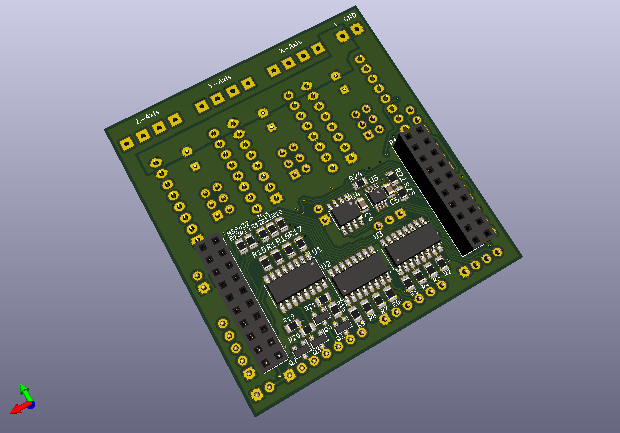
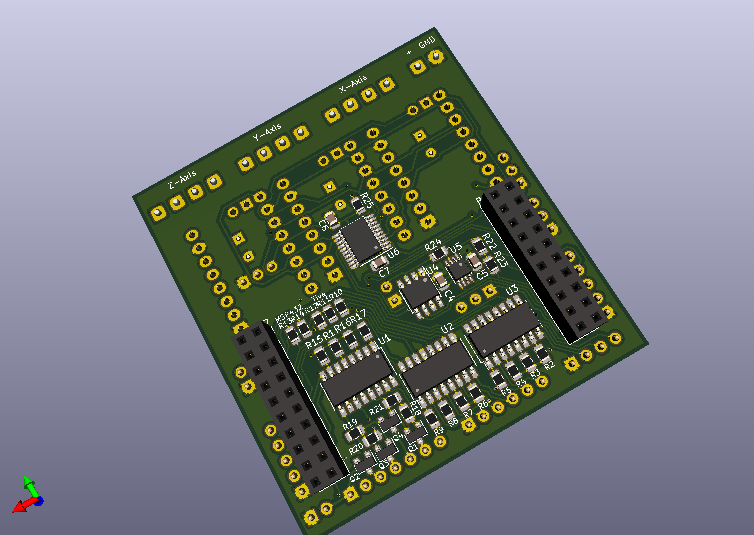
Added MSP432E401Y to pinout assignments
Changed card images to Trinamic TMC2130 version

Changed region(s): [[0.1532, 0.0, 0.8581, 1.0], [0.0, 0.8707, 0.0613, 0.9607]]

diff --git a/LaunchPad pin assinments.md b/LaunchPad pin assinments.md
@@ -1,6 +1,6 @@
- ## LaunchPad GRBL pin assignments for CNC Boosterpack rev1.0
+ ## LaunchPad grblHAL pin assignments for CNC Boosterpack rev1.0
 
- ## Tiva C \(TM4C123G\)
+ ### Tiva C \(TM4C123G\)
 
 ```
                       3v3 [] [] VBUS (5v)             Limit Z PF2 [] [] GND
@@ -14,11 +14,15 @@
                I2CSCL PA6 [] [] PE3 Spindle direction    Mist PD7 [] [] PA3 GPIO2
                I2CSDA PA7 [] [] PF1                 RTS/GPIO0 PF4 [] [] PA2 GPIO3
 ```
-__NOTE__: Remove R9 and R10!
+__NOTE__: Remove R9 and R10! Q1, Q2 and Q3 may also be removed (depending on limit switches configuration) as they have inbuilt pull down resistors.
 
 With shorts - Limit X (R10): PE0 -> PF1, Reset (R11): PB3 -> PC7
 
-## Tiva C \(TM4C1294\) Boosterpack1
+---
+
+### Tiva C \(TM4C1294\) and MSP432E401Y
+ 
+ Boosterpack 1
 
 ```
                       3v3 [] [] VBUS (5v)             Limit Z PF1 [] [] GND
@@ -32,23 +36,54 @@ With shorts - Limit X (R10): PE0 -> PF1, Reset (R11): PB3 -> PC7
                I2CSCL PB2 [] [] PM4 Spindle direction    Mist PL2 [] [] PN3 GPIO2
                I2CSDA PB3 [] [] PM5                 RTS/GPIO0 PL3 [] [] PP3 GPIO3
 ```
-
-## Tiva C \(TM4C1294\) Boosterpack2
+Boosterpack 2, ABC-axes
 
 ```
-                      3v3 [] [] VBUS (5v)             Limit Z PG1 [] [] GND
-                      PD2 [] [] GND                   Limit Y PK4 [] [] PM7 Spindle PWM
-       UART6 RX/GPIO4 PP0 [] [] PB4                     Reset PK5 [] [] PP5 Limit X
-       UART6 TX/GPIO5 PP1 [] [] PB5 Step X        Safety Door PM0 [] [] PA7 Stepper disable Z
-  Keypad strobe/GPIO6 PD4 [] [] PK0 Step Y          Feed Hold PM1 [] [] RST
-                      PD5 [] [] PK1 Step Z        Cycle Start PM2 [] [] PQ2 Dir X
-                Dir Z PQ0 [] [] PK2 Stepper disable XY        PH0 [] [] PQ3 Dir Y
+                      3v3 [] [] VBUS (5v)             Limit B PG1 [] [] GND
+                      PD2 [] [] GND                   Limit A PK4 [] [] PM7 Spindle PWM
+          U6 RX/GPIO4 PP0 [] [] PB4                     Reset PK5 [] [] PP5 Limit C
+          U6 TX/GPIO5 PP1 [] [] PB5 Step C        Safety Door PM0 [] [] PA7 Stepper disable B
+  Keypad strobe/GPIO6 PD4 [] [] PK0 Step A          Feed Hold PM1 [] [] RST
+                      PD5 [] [] PK1 Step B        Cycle Start PM2 [] [] PQ2 Dir C (PA3)
+                Dir B PQ0 [] [] PK2 Stepper disable AC        PH0 [] [] PQ3 Dir A (PA2)
                 Probe PP4 [] [] PK3 Spindle enable      Flood PH1 [] [] PP3 GPIO1
                I2CSCL PN5 [] [] PA4 Spindle direction    Mist PK6 [] [] PQ1 GPIO2
                I2CSDA PN4 [] [] PA5                 RTS/GPIO0 PK7 [] [] PM6 GPIO3
 ```
 
-## MSP430F5529
+Boosterpack2, SD Card - TM4C1294 \(SSI0\)
+
+```
+                      3v3 [] [] VBUS (5v)                     PG1 [] [] GND
+                      PD2 [] [] GND                           PK4 [] [] PM7
+                      PP0 [] [] PB4                           PK5 [] [] PP5 CS
+                      PP1 [] [] PB5                           PM0 [] [] PA7
+                      PD4 [] [] PK0                           PM1 [] [] RST
+                      PD5 [] [] PK1                           PM2 [] [] PQ2
+                      PQ0 [] [] PK2                           PH0 [] [] PQ3 CLK        
+                      PP4 [] [] PK3                           PH1 [] [] PP3
+                      PN5 [] [] PA4 MOSI                      PK6 [] [] PQ1
+                      PN4 [] [] PA5 SOMI                      PK7 [] [] PM6
+```
+
+Boosterpack2, SD Card - MSP432E401Y \(SSI3\)
+
+```
+                      3v3 [] [] VBUS (5v)                     PG1 [] [] GND
+                      PD2 [] [] GND                           PK4 [] [] PM7
+                      PP0 [] [] PB4                           PK5 [] [] PP5 CS
+                      PP1 [] [] PB5                           PM0 [] [] PA7
+                      PD4 [] [] PK0                           PM1 [] [] RST
+                      PD5 [] [] PK1                           PM2 [] [] PQ2 MOSI
+                  CLK PQ0 [] [] PK2                           PH0 [] [] PQ3 SOMI
+                      PP4 [] [] PK3                           PH1 [] [] PP3
+                      PN5 [] [] PA4                           PK6 [] [] PQ1
+                      PN4 [] [] PA5                           PK7 [] [] PM6
+```
+
+---
+
+### MSP430F5529
 
 ```
                       3v3 [] [] VBUS (5v)            Limit Z P2.5 [] [] GND
@@ -63,7 +98,9 @@ With shorts - Limit X (R10): PE0 -> PF1, Reset (R11): PB3 -> PC7
               I2CSDA P4.1 [] [] P3.5               RTS/GPIO0 P8.2 [] [] P8.1 GPIO3
 ```
 
-## MSP432P401R
+---
+
+### MSP432P401R
 
 ```
                       3v3 [] [] VBUS (5v)            Limit Z P2.7 [] [] GND
@@ -81,9 +118,12 @@ With shorts - Reset (R12): P2.4 -> P6.0, Safety Door (R13): P5.6 -> P6.1, Limit 
 
 ---
 
-## Stepper drivers
+### Stepper drivers
 
-### A4998 - requires 3V3 on VDD pin
+#### A4998
+
+**NOTE:** requires 3V3 on VDD pin supplied from GPIO output
+
 ```
 MS1     MS2     MS3     Microstep resolution
 Low 	Low 	Low 	Full step
@@ -94,7 +134,7 @@ High 	High 	High 	Sixteenth step
 ```
 https://www.pololu.com/product/1182
 
-### DRV8825
+#### DRV8825
 ```
 MS1     MS2     MS3     Microstep resolution
 Low 	Low 	Low 	Full step
